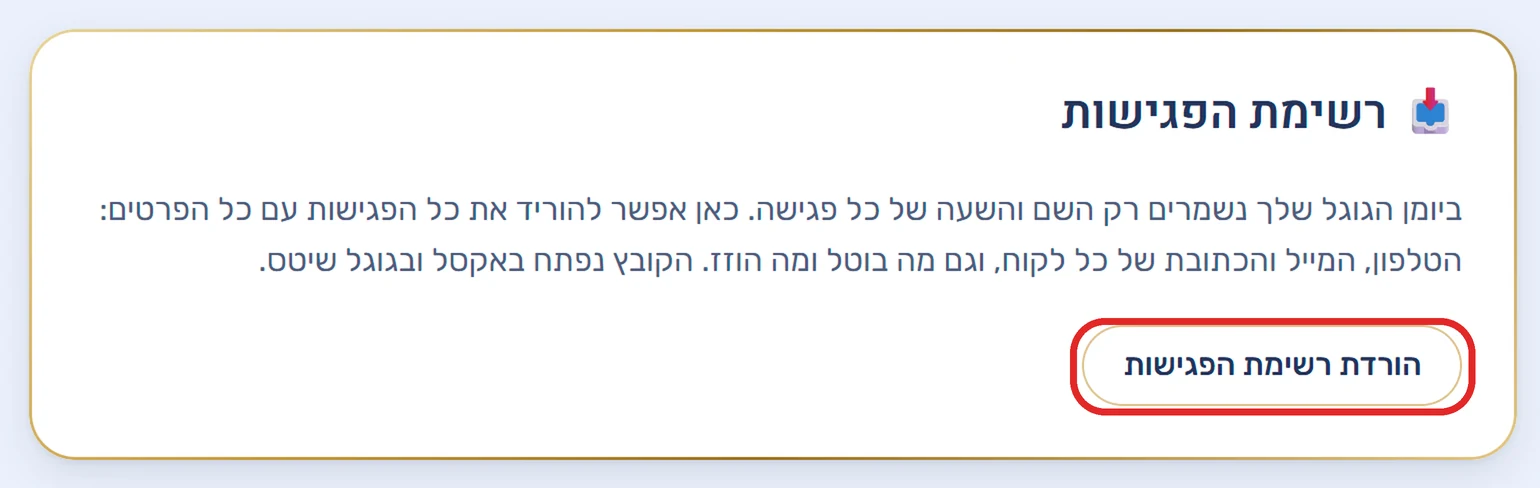
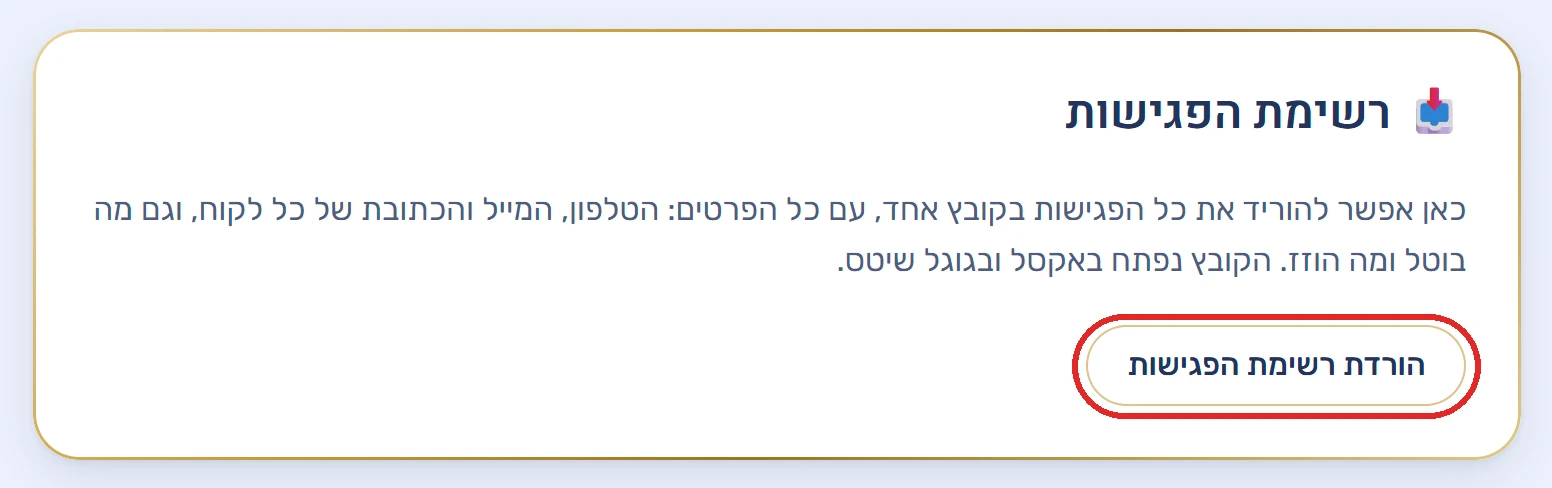
yoman: צילום חדש של כרטיס רשימת הפגישות, עם הנוסח המתוקן

diff --git a/yoman/index.html b/yoman/index.html
@@ -394,7 +394,7 @@
           <p><b>ככה רואים בדיוק כמה לקוחות מבטלים לכם ומזיזים,</b> ואפשר לנהל לעצמכם סטטיסטיקות, אם רוצים.</p>
           <p>ובונוס: <span class="strong">בקובץ יש את כל הפגישות ביחד, עם כל הפרטים של כל לקוח.</span></p>
         </div>
-        <figure class="shot shot-mid" style="max-width:600px"><img src="/assets/img/yoman/export-card.webp?v=1" width="1540" height="488" loading="lazy" alt="הכרטיס רשימת הפגישות בעמוד הפרופיל, עם הכפתור הורדת רשימת הפגישות מסומן בעיגול אדום" /></figure>
+        <figure class="shot shot-mid" style="max-width:600px"><img src="/assets/img/yoman/export-card.webp?v=2" width="1552" height="488" loading="lazy" alt="הכרטיס רשימת הפגישות בעמוד הפרופיל, עם הכפתור הורדת רשימת הפגישות מסומן בעיגול אדום" /></figure>
         <div class="shot-head">
           <h4 class="feat-sub">ככה נראה הקובץ</h4>
         </div>
